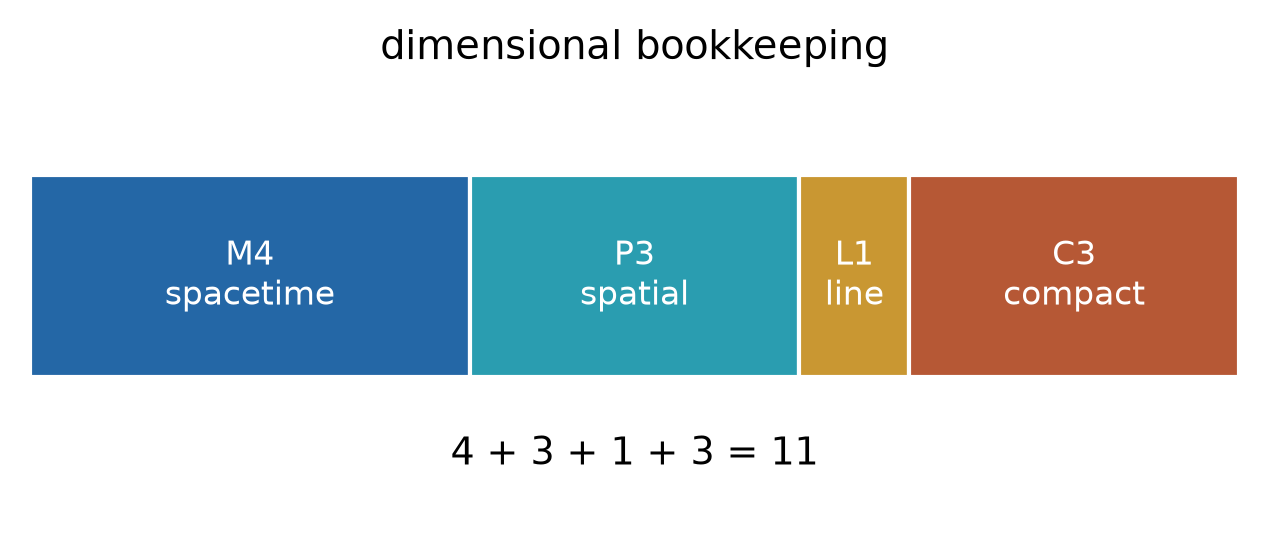
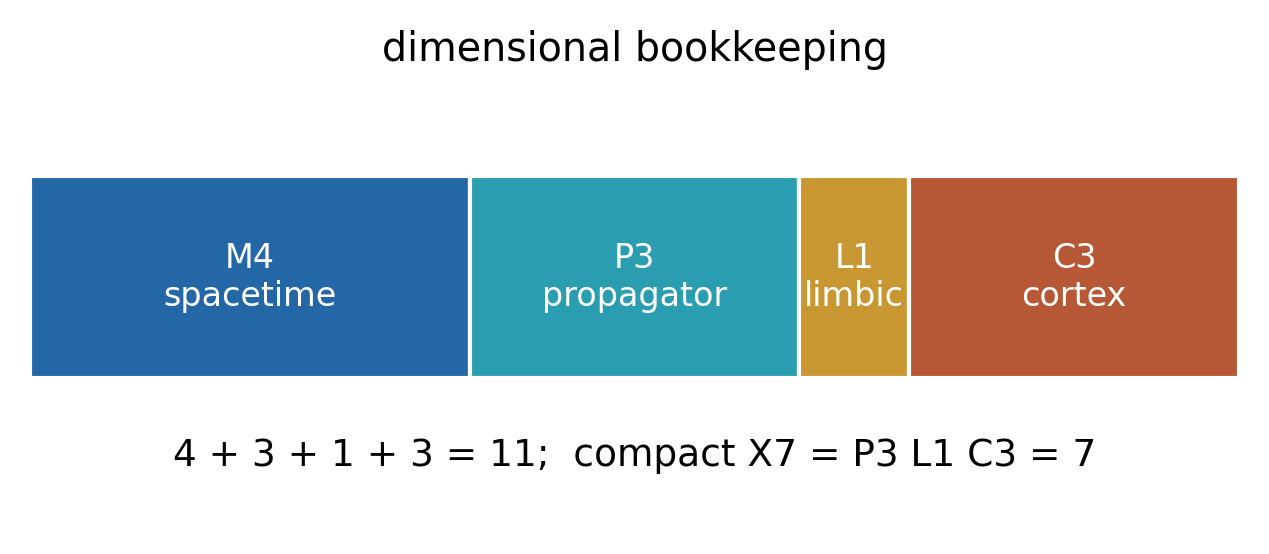
Field Atlas, ch. 4: the eleven's blocks as the papers name them (P3 propagator, L1 limbic, C3 cortex; X7 the compact seven for 7/11; P22's 3/11 the non-compact spatial three inside M4), text and figure T4.1 (ISS-139)

diff --git a/Part2/book/field-atlas/figures/build_theory_figures.py b/Part2/book/field-atlas/figures/build_theory_figures.py
@@ -379,13 +379,13 @@ def fig_T3_5():
 
 def fig_T4_1():
     fig, ax = plt.subplots(figsize=(5.2, 1.9)); ax.axis("off")
-    parts = [("M4\nspacetime", 4, BLUE), ("P3\nspatial", 3, CYAN), ("L1\nline", 1, GOLD), ("C3\ncompact", 3, WARM)]
+    parts = [("M4\nspacetime", 4, BLUE), ("P3\npropagator", 3, CYAN), ("L1\nlimbic", 1, GOLD), ("C3\ncortex", 3, WARM)]
     x = 0
     for label, n, color in parts:
         ax.add_patch(Rectangle((x, 0.45), n, 0.62, fc=color, ec="white"))
         ax.text(x + n / 2, 0.76, label, ha="center", va="center", color="white", fontsize=8)
         x += n
-    ax.text(5.5, 0.18, "4 + 3 + 1 + 3 = 11", ha="center", fontsize=9)
+    ax.text(5.5, 0.18, "4 + 3 + 1 + 3 = 11;  compact X7 = P3 L1 C3 = 7", ha="center", fontsize=9)
     ax.set_xlim(0, 11); ax.set_ylim(0, 1.35)
     ax.set_title("dimensional bookkeeping")
     save(fig, "T4_1_dimension_blocks")

diff --git a/Part2/book/field-atlas/theory/4-eleven-dimensions-m-theory.md b/Part2/book/field-atlas/theory/4-eleven-dimensions-m-theory.md
@@ -12,7 +12,7 @@ $$
 M_4\times P_3\times L_1\times C_3,
 $$
 
-where $M_4$ denotes local spacetime, $P_3$ a spatial vacuum block used in the dark-matter derivation, $L_1$ a localisation or line factor, and $C_3$ a compact/vacuum block used in the dark-energy derivation. The count $4+3+1+3=11$ is bookkeeping inside P21/P22-style assumptions. It is not the same as deriving the observed universe from an M-theory compactification. [derived-under-assumptions]
+where $M_4$ denotes local spacetime and $X_7=P_3\times L_1\times C_3$ the seven compact dimensions: $P_3$ the propagator, $L_1$ the limbic axis and $C_3$ the cortex, as the USF paper names them. The cosmology papers count the same eleven by time, space and the compact block, $1+3+7=11$: P21's dark-energy fraction $7/11$ counts the compact seven, and P22's dark-matter fraction $3/11$ the three non-compact spatial dimensions inside $M_4$. The count $4+3+1+3=11$ is bookkeeping inside P21/P22-style assumptions. It is not the same as deriving the observed universe from an M-theory compactification. [derived-under-assumptions]
 
 This distinction prevents overclaim. Physical compactification begins with a higher-dimensional theory on a product or fibration, then derives lower-dimensional fields, spectra, moduli, and couplings. The programme's count instead organises response sectors and compares fractions such as $7/11$ and $3/11$ with cosmological data. The numerical comparison can be tested and criticised without claiming that a full string vacuum has been constructed. [derived-under-assumptions; open-hypothesis]
 
